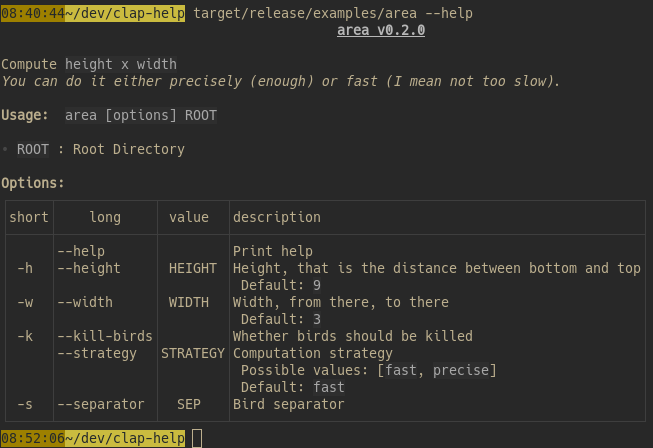
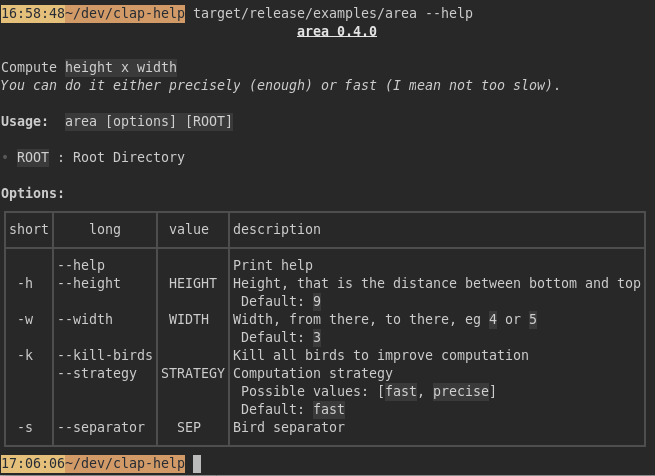
update screenshots for 0.4

diff --git a/README.md b/README.md
@@ -116,10 +116,10 @@ if args.help {
 
 Help rendered in a light terminal:
 
-![area light](doc/area-light.png?v=3)
+![area light](doc/area-light.png)
 
 Same help in a dark terminal:
 
-![area dark](doc/area-dark.png?v=3)
+![area dark](doc/area-dark.png)
 
 Complete example is in `/examples/area`.
